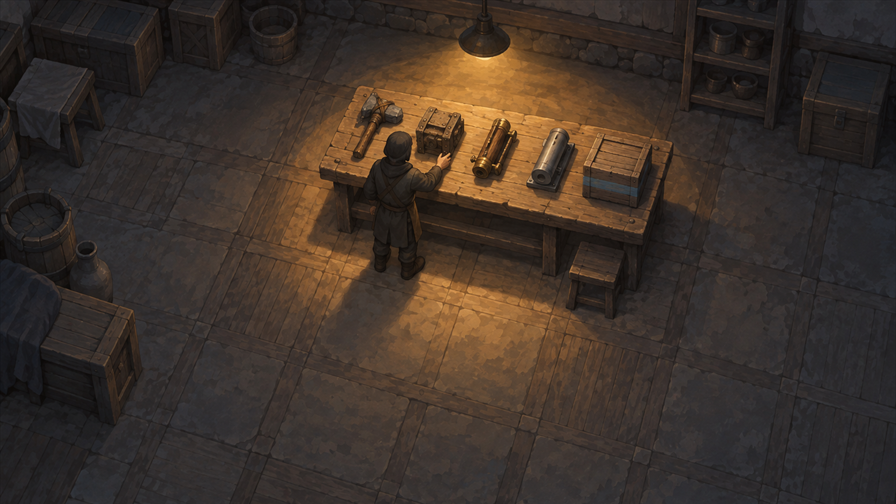
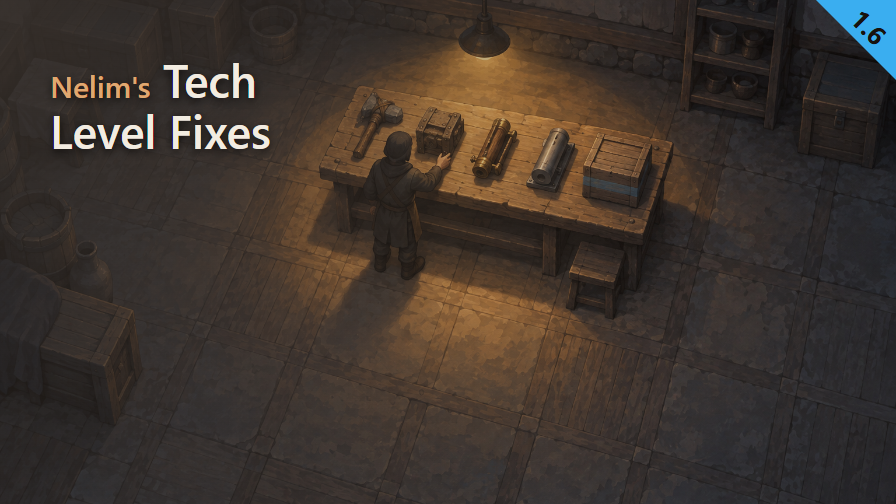
Engrave the Preview title and 1.6 badge; audit preOptions to l10n
The title takes two lines to keep clear of the lamp and the bench, with
Nelim's as a reduced secondary-ink prefix; the badge reads the version from
About.xml. Palette, composition, renderer and QA report live in Art/, the
raw source stays untouched. Contrast 5.35:1 minimum, 728 KB.

STATUS.md: preOptions, options and l10n validated; preTest stays unverified
because 22 of the 30 source mods are not installed here to check their
packageIds and defNames against.

diff --git a/Art/preview.html b/Art/preview.html
@@ -1,0 +1,45 @@
+<!doctype html>
+<html lang="en"><meta charset="utf-8"><title>Tech Level Fixes preview</title>
+<style>
+* { box-sizing: border-box; }
+html, body { margin: 0; padding: 0; width: 896px; height: 504px; overflow: hidden; }
+body { font-family: "Segoe UI", system-ui, sans-serif; }
+.frame { position: relative; width: 896px; height: 504px; background: url("Preview.png") center top/cover no-repeat; }
+.frame::after { content: ""; position: absolute; inset: 0;
+  background: radial-gradient(circle at 0% 0%, rgb(var(--veil-rgb) / .86) 0%, rgb(var(--veil-rgb) / 0) 74%); }
+.text { position: absolute; z-index: 1; left: 50px; top: 54px;
+  color: var(--inkPrimary); text-shadow: 0 3px 10px rgba(0,0,0,.75); }
+h1 { margin: 0; padding: 0; max-width: 290px; font-size: 46px; font-weight: 600; line-height: 1.1; letter-spacing: 0; }
+h1 .prefix { font-size: .65em; color: var(--inkSecondary); }
+.badge { position: absolute; z-index: 2; right: 0; top: 0; width: 80px; height: 80px;
+  background: var(--accent); clip-path: polygon(0 0,100% 0,100% 100%); }
+.version { position: absolute; z-index: 3; left: 869px; top: 27px;
+  transform: translate(-50%,-50%) rotate(45deg); font-size: 26px; font-weight: 700; line-height: 1;
+  color: var(--badgeInk); text-shadow: none; }
+.no-text .text, .no-text .version { visibility: hidden; }
+</style>
+<div class="frame">
+  <div class="text"><h1></h1></div><div class="badge"></div><div class="version"></div>
+</div>
+<script>
+window.previewReady = (async () => {
+  const palette = await (await fetch('preview-palette.json')).json();
+  for (const [key, value] of Object.entries(palette)) document.documentElement.style.setProperty('--' + key, value);
+  document.documentElement.style.setProperty('--veil-rgb', palette.veil.slice(1).match(/../g).map(v => parseInt(v,16)).join(' '));
+  const xml = new DOMParser().parseFromString(await (await fetch('../Mod/About/About.xml')).text(), 'text/xml');
+  const name = xml.querySelector('name').textContent;
+  const heading = document.querySelector('h1');
+  const prefix = name.match(/^Nelim['’]s/);
+  if (prefix) {
+    const span = document.createElement('span'); span.className = 'prefix'; span.textContent = prefix[0];
+    heading.append(span, document.createTextNode(name.slice(prefix[0].length)));
+  } else heading.textContent = name;
+  const versions = [...xml.querySelectorAll('supportedVersions > li')].map(n=>n.textContent.trim()).filter(v=>/^\d+\.\d+(\.\d+)?$/.test(v));
+  versions.sort((a,b)=>{const x=a.split('.').map(Number),y=b.split('.').map(Number); for(let i=0;i<Math.max(x.length,y.length);i++){const d=(y[i]||0)-(x[i]||0);if(d)return d;}return 0;});
+  if (!versions.length) throw new Error('No stable supported version');
+  document.querySelector('.version').textContent = versions[0];
+  await document.fonts.ready;
+  const source = new Image(); source.src = 'Preview.png'; await source.decode();
+  return {palette, version: versions[0], title: name};
+})();
+</script></html>

diff --git a/STATUS.md b/STATUS.md
@@ -9,19 +9,20 @@ repo:         rimworld-nelim-tech-level-fixes
 visibility:   public
 detached:     yes
 stage:        showcase
-workflow_stage: Preview générée
+workflow_stage: l10n
 licence:      original
 licence_at:   2026-09-17, verified by inspection: the shipped content is a set of original XML patches (techLevel corrections keyed by other mods' defNames), no third-party code, text or art copied in. User-stated convention: a `Nelim`-prefixed mod name defaults to private; user explicitly validated a one-off exception to public for this mod on 2026-09-17
 dependencies: none
-showcase:
+showcase:     partial
 tested_on:
 workshop:
 remaining:
-  - feature: preOptions - engrave the Preview overlay (title with `Nelim's` as reduced secondary-ink prefix, summary, accent rule, 1.6 badge), save the palette to Art/preview-palette.json, and check the English description and naming conventions
+  - feature: optional, not required by any transition - the Preview carries the title and the 1.6 badge only, as asked; the one-line summary and the accent rule that STYLE_RIMWORLD.md places under the title are not engraved (`showcase: partial`)
+  - unverified: preTest - 22 of the 30 source mods are not installed on this machine on 2026-09-20 (the Workshop copy of Alchemy (Continued), present on 2026-09-17, is gone), so their packageIds in loadAfter and their 86 corrected defNames could not be checked against real mod data; only 8 mods (80 defNames) were, all resolved. Needs those mods available locally, not a fix
   - unverified: TESTING.md written 2026-09-17 (8 functional scenarios, preconditions/actions/expected results); none has been run in game
   - unverified: no automated C# test harness exists (no C# to test)
 session:      local_bda06393-deee-42a0-8f7b-5796fbec672f
-updated:      2026-09-20, ModIcon (128x128) and Preview (896x504) resized from the raw generations, sources kept in Art/; workflow_stage Preview générée
+updated:      2026-09-20, Preview overlay engraved (title + 1.6 badge); preOptions, options, l10n validated; preTest blocked on unverifiable ids/defNames of 22 uninstalled source mods
 ---
 
 # Nelim's Tech Level Fixes — status
@@ -68,10 +69,10 @@ has started.
 | horsMonoRepo | Validated | As of 2026-09-17: GitHub repository `vbardales/rimworld-nelim-tech-level-fixes` created (public, user-validated exception to the "Nelim-prefixed = private" default), remote `origin` configured, commits pushed. STATUS.md exists. README.md, ATTRIBUTION.md, LICENSE (MIT) and CHANGELOG.md exist in English at the repository root, with LICENSE and ATTRIBUTION.md duplicated into `Mod/`. `.gitignore` and `.gitattributes` added. `packageId` (`nelim.techlevelfixes`), the displayed name (`Nelim's Tech Level Fixes`), the folder name (`TechLevelFixes`) and the repository name are mutually coherent. |
 | ModIcon generated | Validated | Development is finished (30 generated patch files, no build applicable: no C#). `Mod/About/ModIcon.png` is a 128x128 PNG, 19,025 bytes, produced on 2026-09-20 from the user's raw 1254x1254 generation (kept as `Art/ModIcon-source.png`, byte-identical to what was dropped in). Directly inspected at 128 px and at a 32 px copy enlarged 6x: the winking orange mascot and its gear stay identifiable at 32 px; the lettering does not (see reservations). The first raw drop (1254x1254, 1,114,566 bytes) was a defect and is superseded. |
 | Preview generated | Validated | `Mod/About/Preview.png` is a 896x504 (16:9) PNG, 868,710 bytes, under both the 900 KB target and the 1 MB hard limit. It is the top 1536x864 band of the user's raw 1536x1024 generation (kept unchanged as `Art/Preview.png`), reduced with high-quality bicubic resampling; the crop removes only floor at the bottom. Directly inspected at full size and at a 268 px thumbnail: high oblique camera, tiled floor, one lamp pool, one dark settler from behind, four objects still identifiable at 268 px; no camera defect observed, no readable text. No overlay yet: title and badge belong to preOptions. The first raw drop (1536x1024, 2,070,420 bytes) was a defect and is superseded. |
-| preOptions | Not reached | Requires the engraved overlay with an accent colour distinct from the secondary ink (palette in `Art/preview-palette.json`), the English description, and prefix/suffix and connecting-word handling per the naming conventions. `About.xml`'s description already ends with the `[url=...]Source code on GitHub[/url]` link and `<url>` matches the remote. None of the overlay work exists yet. |
-| options | Not reached | `settings_audit` unchecked; gate not entered. |
-| l10n | Not reached | `localization`, `translation_en`, `translation_fr` unchecked; gate not entered. |
-| preTest | Not reached | Not applicable yet: no LoadFolders.xml is shipped, and there is nothing to audit for dependency declarations beyond the existing `loadAfter` list, which is out of scope until the earlier gates pass. |
+| preOptions | Validated | Preview adjusted on 2026-09-20 (see "Preview overlay"): accent `#3AAEF0` (blue family) is clearly separate from the secondary ink `#E0A870` (warm brown family), 172 degrees apart in hue, checked visually at 896x504 and at a 268 px thumbnail. Description is in English and ends, after the feature text, with exactly `[url=https://github.com/vbardales/rimworld-nelim-tech-level-fixes]Source code on GitHub[/url]` as its last element; that target equals the `origin` remote and the `<url>` field, and `gh repo view` confirmed the repository exists and is public. Naming: `Nelim's` is the prefix (reduced to 65% in secondary ink), `Tech Level Fixes` keeps 100% in primary ink; no `Renew`/`Extended`/`Plus` suffix applies to an original mod, and the title has no connecting word to reduce. No `(prohibited)`/`(unofficial)` tag applies (public, licence `original`). |
+| options | Validated (not applicable, justified) | `settings_audit: not_applicable`, established by static inventory: no C# and no assembly anywhere in the tree, and the only XML besides About.xml is patch files writing `<techLevel>`, so no settings owner, page or MainButtons shortcut can exist (see "Settings audit"). Re-checked against the full 30-file tree after the Zombieland addition. No in-game integration is claimed as tested; none is required for this step. |
+| l10n | Validated (not applicable, justified) | `localization`, `translation_en`, `translation_fr: not_applicable`: an inventory of every `<value>` across the 30 patch files (332 `<value>` and 332 `<techLevel>` tags) shows the mod writes only a `techLevel` enum whose display text the base game already localizes; no Keyed, DefInjected or code-generated text exists (see "Translation audit"). About metadata is outside this gate per TRANSLATIONS.md. |
+| preTest | Not verified | The declarations are coherent as far as checkable: no `modDependencies`, 30 `loadAfter` entries matching the 30 patch files exactly, every patch guarded by a `success` of `Always`, no `LoadFolders.xml` needed, only vanilla patch classes. But on 2026-09-20 only 8 of the 30 source mods are installed here; for those, all 80 corrected defNames resolve and the packageIds match. For the other 22 mods, the packageIds and 86 defNames could not be verified against real data during this audit (see "Dependency check"). A mandatory criterion that cannot be verified now, not a defect found. |
 | done | Not reached | `TESTING.md` has 8 functional scenarios, written 2026-09-17, none run in game. `Tests/Check-Patches.ps1` (XML tests) and `Tests/techlevelfixes.feature` + `Tests/Run-Gherkin.ps1` (pickles/Gherkin) are both written and green as of 2026-09-17 (30 files, 166 corrections). No automated C# harness exists (no C# to test). The in-game half of "done" — actually walking TESTING.md's 8 scenarios — remains outstanding. |
 | tested | Not reached | No in-game validation of any kind has been performed or claimed. |
 
@@ -355,14 +356,61 @@ thumbnail (inspection copies live in the ignored scratchpad, not the repo).
 Result: `ModIcon générée` and `Preview générée` **validated**, so
 `workflow_stage` is now `Preview générée`.
 
-### Work strictly needed to pass `Preview générée -> preOptions`
+### Preview overlay — 2026-09-20, at the user's request ("grave le titre et le badge")
 
-The engraved overlay per STYLE_RIMWORLD.md (palette drawn from `Art/Preview.png`,
-saved to `Art/preview-palette.json`; title with `Nelim's` as a 65% secondary-ink
-prefix; accent rule; summary line; `1.6` badge; contrast at least 4.5:1;
-checked at 896x504 and 268 px), written into `Mod/About/Preview.png` while
-`Art/Preview.png` stays untouched. Plus the English-description and naming
-check. Not started.
+Composition, palette and renderer live in `Art/`: `preview.html`,
+`preview-palette.json` (the single palette, five hex fields, not duplicated here),
+`render-preview.cjs`, and the last QA report `preview-qa.json`. Rendered with
+headless Chrome through playwright and sharp, taken from an existing install
+under `qi-gong/app/node_modules` via `NODE_PATH`; nothing was installed. The
+final `Mod/About/Preview.png` is regenerated from `Art/Preview.png` (untouched)
+by `node Art/render-preview.cjs`.
+
+- What guided the palette, measured on `Art/Preview.png`: the veil is the mean of
+  the stone floor and wood in the title zone, `rgb(56,47,42)`, desaturated one
+  notch; the secondary ink comes from the dominant family, hues 0-30 degrees,
+  which covers 42.5% of the sampled frame (the brown floor and wood), lightened
+  to `#E0A870`; the accent is the blue family of the striped crate, which is the
+  only cold hue carried by a subject detail (0.6% of the frame). The stripe
+  itself measures as a muted blue-grey, about `rgb(55,67,77)`, so the accent is
+  that hue with its saturation and lightness raised to `#3AAEF0`. The brightest
+  region, the lamp, is amber and close to the secondary, so it was not used.
+- Layout: title 46 px, weight 600, on two lines (`Nelim's Tech` / `Level Fixes`)
+  from a 290 px width, at 50 px left and 54 px top. One line at 46 px ran into
+  the lamp glow and the objects on the bench (worst contrast 1.88:1), so the
+  natural two-line wrap was chosen over shrinking below 46 px, as the guide
+  prefers. `Nelim's` is a direct span at 65% in the secondary ink. No tag (public,
+  licence `original`). Badge: 80 px triangle in the accent, `1.6` in `#17120E`,
+  rotated 45 degrees, the value read from the highest stable `supportedVersions`
+  in the shipped About.xml.
+- Fonts actually used, confirmed through Chrome's platform-font report: Segoe UI
+  Semibold for the title and the prefix, Segoe UI Bold for the version, no
+  fallback. The capture waits for `document.fonts.ready` and the source image.
+- Measured on a background-only render, over the whole text rectangles rather
+  than four corners: title 5.35:1, prefix 5.55:1, badge digits on the accent
+  7.52:1, all above 4.5:1. The title stays 24 px or more away from the badge
+  (it ends near x=340, the badge starts at x=816) and no text leaves the frame.
+- Result: 896x504, 728,168 bytes (under the 900 KB target and the 1 MB limit).
+  Inspected at full size and at 268 px: title and version identifiable, no
+  overlap, no clipped glyph, the four objects and the settler unobscured.
+- Not engraved, because the request was title and badge: the accent rule and the
+  one-line summary. This is why `showcase` is `partial`. No transition requires
+  them.
+
+### Dependency check — 2026-09-20, read-only
+
+Against the installed Workshop copies and `RimWorld/Mods` (8,352 packageIds
+indexed): 8 of the 30 `loadAfter` ids were found (`LadyElizabeth.AdditionalToolsMod`,
+`Mlie.AdvancedRaiders`, `overpl.AnimalSarcophagus`, `Romyashi.AncientJunkLoot`,
+`sarg.alphabooks`, `starter.beeer`, `Udon.AnimalSimpleCommand`,
+`zal.ancientamulets`), and for those, all 80 corrected `defName`s were found in the
+mod's own XML. The other 22 mods are not installed on this machine today, so
+their ids and 86 `defName`s stay unverified. Notably `zal.alchemy`, whose Workshop
+copy (3132057783) was there on 2026-09-17 and was used to settle the lowercase
+`thingDef` question, is no longer present. Recorded as `unverified` in
+`remaining`, not as a defect. To pass `l10n -> preTest`: make those 22 mods
+available locally and rerun the same check, or accept another source of truth for
+their packageIds.
 
 ### Reservations (non-blocking, not required to pass)
 
